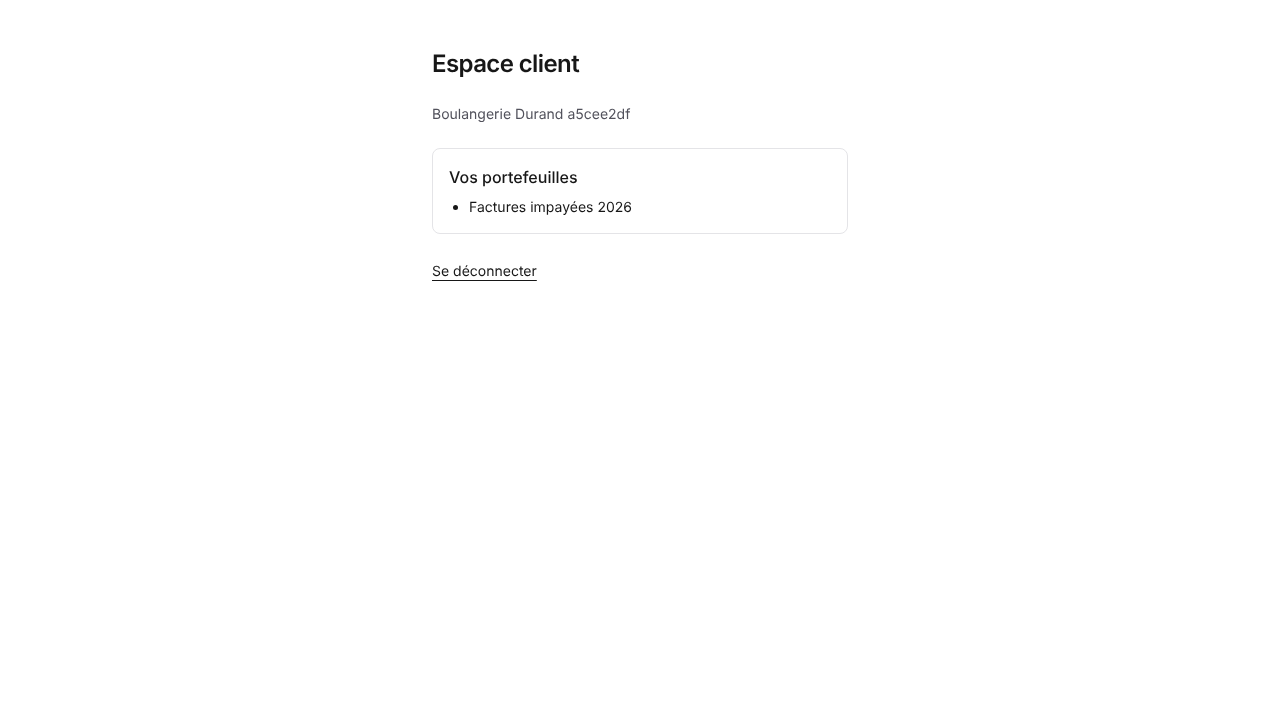
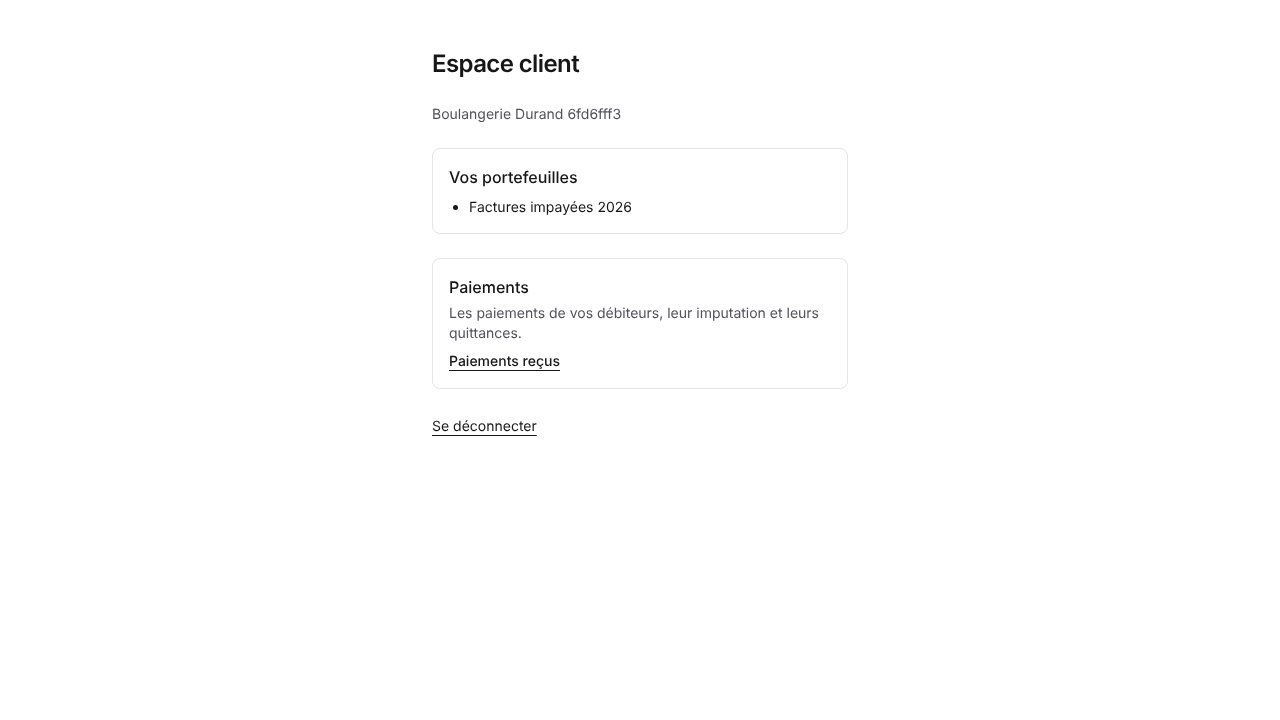
M2b-5: full test runs (E2E 32, integration 70), allocation unchanged at 50k; client home screenshots
Claude-Session: https://claude.ai/code/session_01FxRQS6WSwQH1ctn7nhDETM

Changed region(s): [[0.3438, 0.3667, 0.625, 0.5194], [0.3438, 0.5806, 0.4375, 0.6111], [0.4375, 0.1528, 0.5, 0.1833]]

diff --git a/docs/PROGRESS.md b/docs/PROGRESS.md
@@ -33,7 +33,7 @@ _Updated at every commit. New sessions: read `CLAUDE.md`, `docs/BRIEF.md`, then 
 - Local check: Supabase CLI 2.122.1 + local stack start in ~2 min (cold) / ~35 s (cached).
 
 ## In progress
-- **M2b-5 (M2-10, M2-11), in progress** on branch `m2b5`: receipts (R124-6) and the client payment feed (R124-5) (ADR-0013 M2b-5 addendum, design §6, §9, §10, §12, §13; founder #13–#15, #17, #18). Migration `20261110090000_receipts_feed.sql`: `receipt` (one number per payment on a file, versions original / update / void, append-only, guard on version continuity, file and document), payload built in SQL from the ledger (amounts as text; no remaining balance; payer named only if his words are exactly a party's, else « Versement d'un tiers »), queued by payment-tagged entries and payment changes (200 per job), backfill of earlier allocations, `client_payment_feed` (amounts from the postings, delivery recorded when a client member reads it), RLS and a storage policy for the PDFs. Worker: job `payments.receipts` (receipts lock, render + 8 uploads alongside, record), deterministic PDF (reportlab 4.4.10 invariant and uncompressed, DejaVu Sans committed with its licence, dates from `known_at`). Web: « Paiements reçus » in the client space (`/client/paiements`), receipt versions with PDF and SHA-256 on the payment page, receipt links on the file page, PDF routes for staff and client (hash checked before serving). Tests: pgTAP 79 new (839 total), pytest unit 15 new, integration 5 new (+1 scale), vitest 6 new, E2E 1 new × desktop + mobile. Scale: 50k receipts in 578 s (11.6 ms each; `docs/benchmarks/payments.md`); CI runs 5k. Next: review, PR.
+- **M2b-5 (M2-10, M2-11), in progress** on branch `m2b5`: receipts (R124-6) and the client payment feed (R124-5) (ADR-0013 M2b-5 addendum, design §6, §9, §10, §12, §13; founder #13–#15, #17, #18). Migration `20261110090000_receipts_feed.sql`: `receipt` (one number per payment on a file, versions original / update / void, append-only, guard on version continuity, file and document), payload built in SQL from the ledger (amounts as text; no remaining balance; payer named only if his words are exactly a party's, else « Versement d'un tiers »), queued by payment-tagged entries and payment changes (200 per job), backfill of earlier allocations, `client_payment_feed` (amounts from the postings, delivery recorded when a client member reads it), RLS and a storage policy for the PDFs. Worker: job `payments.receipts` (receipts lock, render + 8 uploads alongside, record), deterministic PDF (reportlab 4.4.10 invariant and uncompressed, DejaVu Sans committed with its licence, dates from `known_at`). Web: « Paiements reçus » in the client space (`/client/paiements`), receipt versions with PDF and SHA-256 on the payment page, receipt links on the file page, PDF routes for staff and client (hash checked before serving). Tests: pgTAP 79 new (839 total), pytest unit 14 new (528), integration 5 new (+1 scale), vitest 6 new (113), E2E 1 new × desktop + mobile (full suite 32 passed). Scale: 50k receipts in 578 s (11.6 ms each; `docs/benchmarks/payments.md`), CI runs 5k; the 50k allocation run is unchanged (post 8.2–9.2 s per 10k). Screenshots: `m2-payment-receipt*`, `m2-client-payments`, `m0-client-space` (link to the feed). Next: review, PR.
 
 ## Next
 - Performance before production volumes: RLS on `account` / `party` (and tables keyed by them) calls `can_read_portfolio()` per row; with 157k accounts locally a client's `count(*)` took 41 s. Apply the ledger's pattern (`= any ((select private.readable_portfolio_ids())::uuid[])`, evaluated once per query) and add a scale check.

diff --git a/docs/benchmarks/payments.md b/docs/benchmarks/payments.md
@@ -185,3 +185,6 @@ and receipts).
 - **Design risk R8** estimated 20–40 min for 50k receipts: ~10 min, in background jobs that never hold the allocation
   lock. Receipts of one servicer are issued one job at a time (one number counter); several servicers run in
   parallel. Faster later if needed: render in a process pool (4 cores), or lighter font subsets.
+- **Allocation unchanged by the receipt triggers** (M2b-5, fresh database): the 50k allocation run posts 8.2–9.2 s per
+  10k job as before (the statement-level triggers on `ledger_entry` and `payment` add one `pgmq.send` per 200
+  payments); the test's total, 56.9 s, also counts taking the 250 receipt jobs off the queue unrun.
